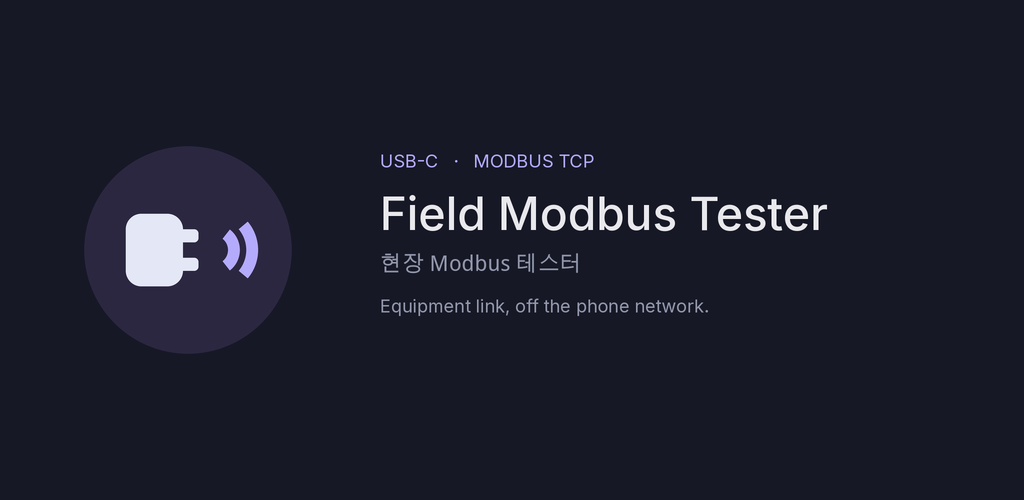
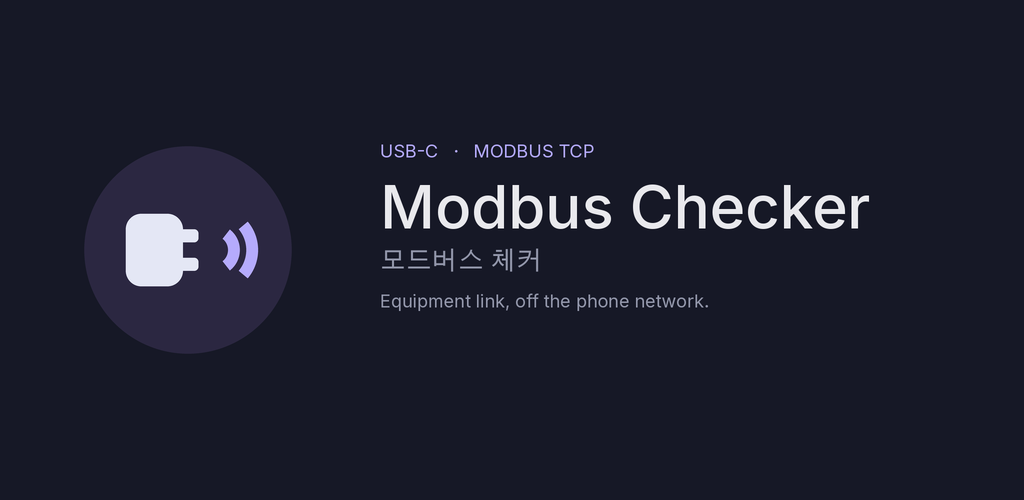
이름: 모드버스 체커 / Modbus Checker
런처 이름, 스토어 제목, 개인정보처리방침, README, 그래픽 이미지를 맞춘다.
패키지 이름은 com.emsfield.fieldtester 그대로다.

Changed region(s): [[0.375, 0.27, 0.8438, 0.63]]

diff --git a/tools/gen_launcher_icons.py b/tools/gen_launcher_icons.py
@@ -137,14 +137,14 @@ def feature_graphic() -> Image.Image:
     icon = render_icon(560)
     img.alpha_composite(icon, (96, (h - 560) // 2))
 
-    med = ImageFont.truetype(str(FONT_MED), 92)
+    med = ImageFont.truetype(str(FONT_MED), 120)
     reg = ImageFont.truetype(str(FONT_REG), 36)
-    ko_font = ImageFont.truetype(str(FONT_KO), 44) if FONT_KO.is_file() else reg
+    ko_font = ImageFont.truetype(str(FONT_KO), 52) if FONT_KO.is_file() else reg
     x = 760
-    draw.text((x, 300), "USB-C   ·   MODBUS TCP", font=reg, fill=ARC)
-    draw.text((x, 370), "Field Modbus Tester", font=med, fill=TITLE)
-    draw.text((x, 500), "현장 Modbus 테스터", font=ko_font, fill=MUTED)
-    draw.text((x, 590), "Equipment link, off the phone network.", font=reg, fill=MUTED)
+    draw.text((x, 280), "USB-C   ·   MODBUS TCP", font=reg, fill=ARC)
+    draw.text((x, 340), "Modbus Checker", font=med, fill=TITLE)
+    draw.text((x, 490), "모드버스 체커", font=ko_font, fill=MUTED)
+    draw.text((x, 580), "Equipment link, off the phone network.", font=reg, fill=MUTED)
     return opaque(img).resize((1024, 500), Image.Resampling.LANCZOS)
 
 

diff --git a/app/src/main/java/com/emsfield/fieldtester/MainActivity.java b/app/src/main/java/com/emsfield/fieldtester/MainActivity.java
@@ -1465,7 +1465,7 @@ public class MainActivity extends Activity {
 
         LinearLayout head = N.col(this, 2);
         head.setPadding(N.dp(12), 0, N.dp(12), N.dp(14));
-        head.addView(N.mediumText(this, "Modbus Tool", 17, N.TEXT));
+        head.addView(N.mediumText(this, t("appName"), 17, N.TEXT));
         String sub = adapter == Ad.UP ? "USB · " + (ipState == IpSt.OK ? ip.trim() + "/" + prefix.trim() : t("ipNotSet")) : t("adNone");
         head.addView(N.monoText(this, sub, 11, N.NEUTRAL_500));
         panel.addView(head);

diff --git a/app/src/main/java/com/emsfield/fieldtester/I18n.java b/app/src/main/java/com/emsfield/fieldtester/I18n.java
@@ -14,6 +14,7 @@ final class I18n {
     }
 
     static {
+        p("appName", "모드버스 체커", "Modbus Checker");
         p("title", "Modbus 클라이언트", "Modbus Client");
         p("secAdapter", "USB 어댑터", "USB adapter");
         p("usbInfo", "USB 정보", "USB info");

diff --git a/play-store/listing.md b/play-store/listing.md
@@ -1,15 +1,15 @@
 # 스토어 등록정보
 
 Play Console 의 기본 언어와 영어 번역에 붙여 넣는다. 글자 수는 공백을 포함한다.
-런처 이름은 `app/src/main/res/values/strings.xml` (한국어) 와 `values-en/strings.xml` (영어) 이다.
+런처 이름은 짧게 둔다. 한국어 `모드버스 체커`, 영어 `Modbus Checker` (`values/strings.xml`, `values-en/strings.xml`). 패키지 이름은 `com.emsfield.fieldtester` 그대로다. 아래 앱 이름은 Play Console 제목(30자)이다.
 
 스토어 아이콘과 그래픽 이미지는 `play-store/graphics/` 에 있다. 아직 없는 것은 휴대폰 스크린샷이다.
 
 ## 한국어
 
-### 앱 이름 (13 / 30)
+### 앱 이름 (24 / 30)
 
-현장 Modbus 테스터
+모드버스 체커 - USB 이더넷 계측기 점검
 
 ### 간단한 설명 (53 / 80)
 
@@ -17,7 +17,7 @@ USB-C 이더넷으로 계측기 Modbus TCP를 점검합니다. 장비망은 폰 
 
 ### 자세한 설명
 
-현장 Modbus 테스터는 안드로이드 폰과 USB-C 이더넷 어댑터로 전력량계, PLC, 게이트웨이 같은 현장 계측기의 Modbus TCP를 점검하는 도구입니다.
+모드버스 체커는 안드로이드 폰과 USB-C 이더넷 어댑터로 전력량계, PLC, 게이트웨이 같은 현장 계측기의 Modbus TCP를 점검하는 도구입니다.
 
 폰의 LTE·Wi-Fi와 장비망을 섞지 않습니다. 앱이 USB 어댑터를 직접 점유하고, 앱 안에만 있는 IP로 ARP, IPv4, ICMP, TCP를 처리합니다. 그 주소는 안드로이드 네트워크 설정에 등록되지 않습니다.
 
@@ -40,9 +40,9 @@ USB-C 이더넷으로 계측기 Modbus TCP를 점검합니다. 장비망은 폰 
 
 ## English
 
-### App name (19 / 30)
+### App name (29 / 30)
 
-Field Modbus Tester
+Modbus Checker - USB Ethernet
 
 ### Short description (80 / 80)
 
@@ -50,7 +50,7 @@ Test Modbus TCP on field instruments over USB-C Ethernet, off the phone network.
 
 ### Full description
 
-Field Modbus Tester checks Modbus TCP on field instruments such as power meters, PLCs, and gateways, using an Android phone and a USB-C Ethernet adapter.
+Modbus Checker checks Modbus TCP on field instruments such as power meters, PLCs, and gateways, using an Android phone and a USB-C Ethernet adapter.
 
 The phone's LTE or Wi-Fi stays separate from the equipment network. The app claims the USB adapter itself and runs ARP, IPv4, ICMP, and TCP on an IP that exists only inside the app. That address is not registered as an Android network.
 

diff --git a/play-store/privacy-policy.md b/play-store/privacy-policy.md
@@ -12,7 +12,7 @@
 
 ## 한국어
 
-현장 Modbus 테스터("앱")는 USB-C 이더넷 어댑터로 현장 계측기의 Modbus TCP 를 점검하는 도구입니다. 개발자는 이용자 계정을 만들지 않으며, 장비 데이터나 Modbus 값을 받는 서버를 운영하지 않습니다.
+모드버스 체커("앱", 영문 Modbus Checker)는 USB-C 이더넷 어댑터로 현장 계측기의 Modbus TCP 를 점검하는 도구입니다. 개발자는 이용자 계정을 만들지 않으며, 장비 데이터나 Modbus 값을 받는 서버를 운영하지 않습니다.
 
 ### 기기 안에만 있는 데이터
 
@@ -63,7 +63,7 @@ privacy@example.com
 
 ## English
 
-Field Modbus Tester (the "app") checks Modbus TCP on field instruments through a USB-C Ethernet adapter. The developer does not create user accounts and does not operate a server that receives equipment data or Modbus values.
+Modbus Checker (the "app"; Korean name 모드버스 체커) checks Modbus TCP on field instruments through a USB-C Ethernet adapter. The developer does not create user accounts and does not operate a server that receives equipment data or Modbus values.
 
 ### Data that stays on the device
 

diff --git a/README.md b/README.md
@@ -1,4 +1,6 @@
-# phone-modbus-client
+# 모드버스 체커 (Modbus Checker)
+
+저장소 이름은 `phone-modbus-client`, 패키지 이름은 `com.emsfield.fieldtester` 이다.
 
 안드로이드 폰에 USB-C 이더넷 어댑터를 꽂아 현장 계측기(전력량계, PLC, 게이트웨이)와 **Modbus TCP 통신을 점검하는 앱**의 PoC.
 
